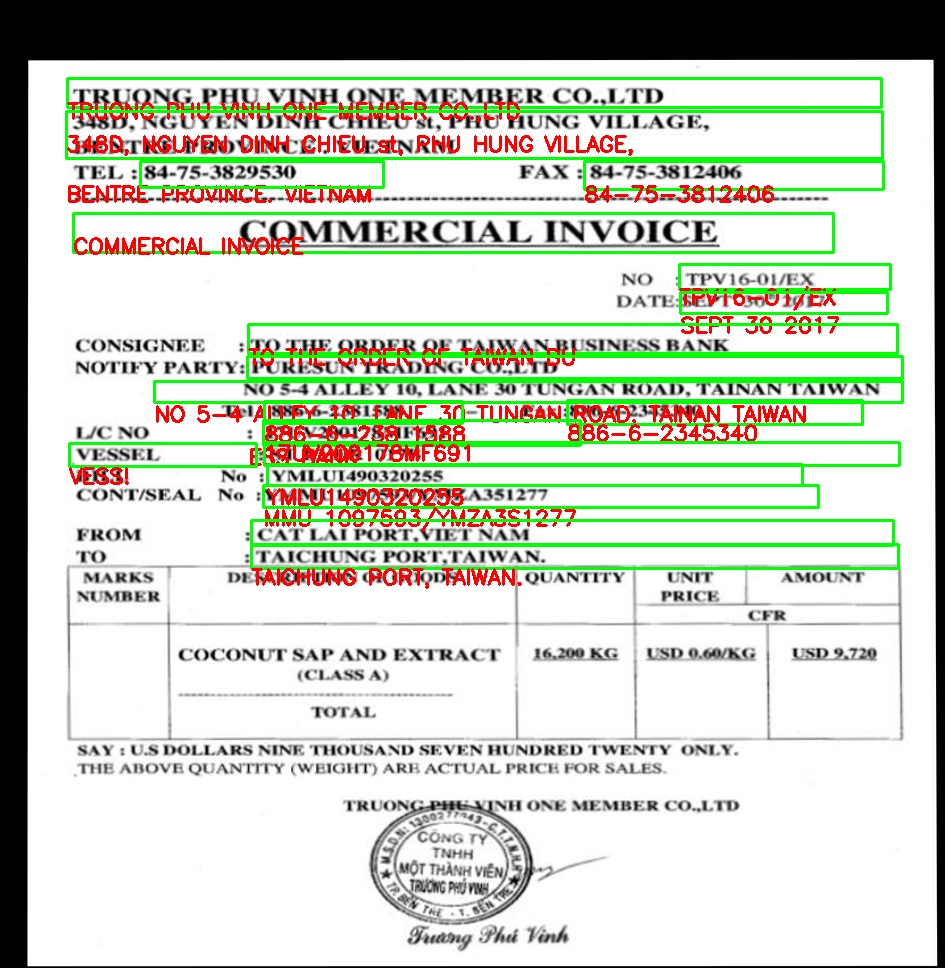
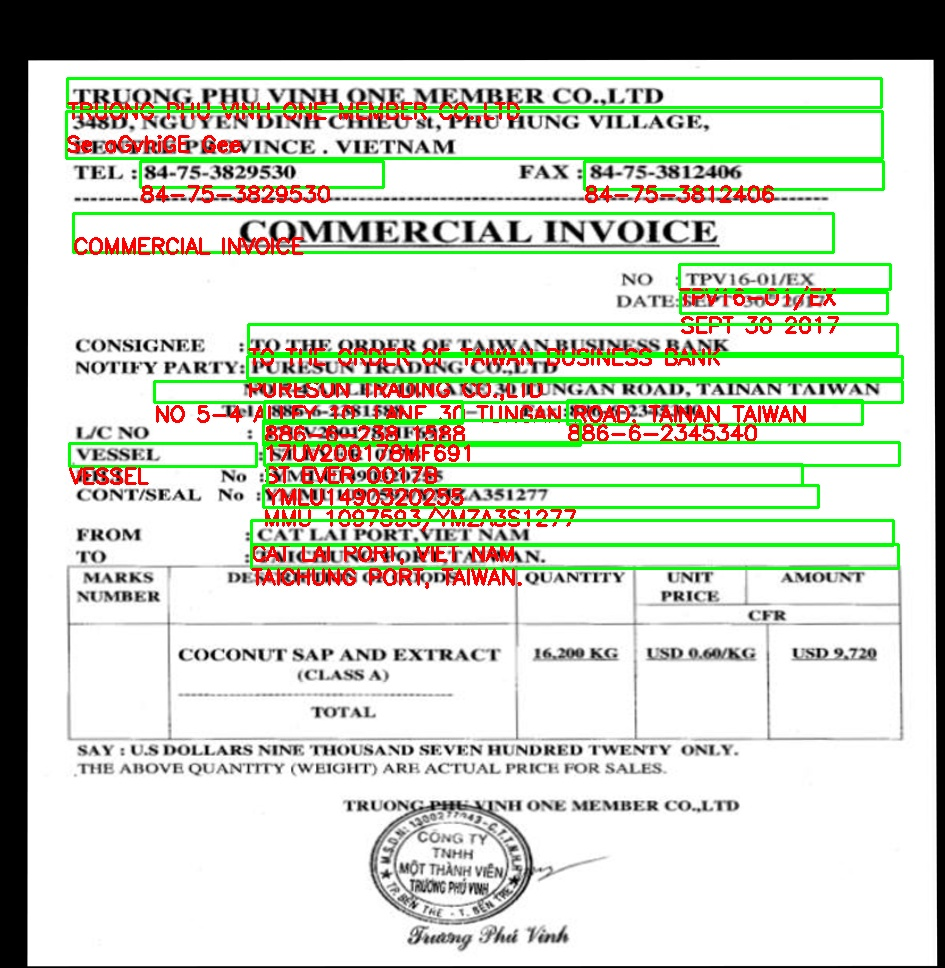
update

diff --git a/app/controllers/controller.py b/app/controllers/controller.py
@@ -3,6 +3,9 @@ from sanic import response
 from sanic import Blueprint
 from sanic.request import Request
 from app.services.align_images import align_images
+from app.services.image_process import download_image_from_url, load_template_and_config
+from app.services.text_process import cleanup_text
+from app.services.ocr_form import ocr_image, visualize_ocr
 from numpy import asarray
 import pytesseract
 import numpy as np
@@ -12,49 +15,7 @@ import os
 import imutils
 
 
-def cleanup_text(text):
-	return "".join([c if ord(c) < 128 else "" for c in text]).strip()
-
 my_bp = Blueprint('my_blueprint')
-
-import requests
-from io import BytesIO
-from PIL import Image
-import urllib
-
-def download_image_from_url(url):
-	try:
-		url_response = urllib.request.urlopen(url)
-		img_array = np.array(bytearray(url_response.read()), dtype=np.uint8)
-		img = cv2.imdecode(img_array, -1)
-		return img
-	except Exception as e:
-		print(f"Error downloading image from URL: {e}")
-		return None
-
-def load_template_and_config(doc_type):
-	try:
-		if doc_type == 1:
-			label = 'invoice_1'
-			template_folder = f'app/templates/invoices'
-			config_folder = f'app/classified/invoices'
-
-			# Load template image
-			template_image_path = os.path.join(template_folder, label + '.png')
-			template_image = cv2.imread(template_image_path)
-
-			# Load config from JSON file
-			config_file_path = os.path.join(config_folder, label + '.json')
-			with open(config_file_path, 'r') as config_file:
-				config_data = json.load(config_file)
-
-			return template_image, config_data
-
-		# Handle other doc_types if needed
-
-	except Exception as e:
-		print(f"Error loading template and config: {e}")
-		return None, None
 
 @my_bp.route('/my_bp')
 def my_bp_func(request):
@@ -68,7 +29,7 @@ def my_bp_func(request):
 @my_bp.route('/ocr_document', methods=['POST'])
 async def ocr_document(request: Request):
 	try:
-		custom_config = "-c page_separator=''"
+		# custom_config = "-c page_separator=''"
 		data = request.json
 		doc_type = data.get('type')
 		image_url = data.get('image_url')
@@ -80,75 +41,10 @@ async def ocr_document(request: Request):
 
 		if template is not None and config_data is not None:
 			image = download_image_from_url(image_url)
-			print("img: ", image)
-			# if image:
-			# Tiếp tục xử lý ảnh
-			# ...
-			print("[Info] aligning images...")
 			aligned = align_images(image, template)
+			results = ocr_image(aligned, template, OCR_Locations=config_data)
+			visualize_ocr(results, image, aligned)
 
-			print("[Info] OCR'ing document...")
-			parsingResults = []
-			OCR_Locations = config_data
-			for loc in OCR_Locations:
-				bbox = loc["bbox"]
-				(x, y, w, h) = bbox
-				# roi = aligned[y:y+h, x:x+w]
-				roi = aligned[y: h, x: w]
-
-				rgb = cv2.cvtColor(roi, cv2.COLOR_BGR2GRAY)
-				# image = cv2.cvtColor(rgb, cv2.COLOR_BGR2GRAY)
-				# print(pytesseract.image_to_string(rgb, config='--psm 7')) #use psm 7 since it is a single line
-				cv2.imwrite(loc['id'] + '.jpg', rgb)
-				text = pytesseract.image_to_string(rgb, config='--psm 7')
-				
-				for line in text.split("\n"):
-					if len(line) == 0:
-						continue
-
-					lower = line.lower()
-					count = sum([lower.count(x) for x in loc["filter_keywords"]])
-
-					# if count == 0:
-					parsingResults.append((loc, line))
-
-			results = {}
-
-			for (loc, line) in parsingResults:
-				print("loc:", loc)
-				r = results.get(loc['id'], None)
-
-				if r is None:
-					results[loc['id']] = (line, loc)
-				
-				else:
-					(existingText, loc) = r
-					text = "{}\n{}".format(existingText, line)
-
-					results[loc["id"]] = (text, loc)
-
-			for (locID, result) in results.items():
-				(text, loc) = result
-
-				print(loc["id"])
-				print("=" * len(loc["id"]))
-				print("{}\n\n".format(text))
-
-				(x, y, x2, y2) = loc["bbox"]
-				clean = cleanup_text(text)
-
-				cv2.rectangle(aligned, (x, y), (x2, y2), (0, 255, 0), 2)
-
-				for (i, line) in enumerate(clean.split("\n")):
-					startY = y + (i * 50) + 40  # Điều chỉnh khoảng cách giữa các dòng và kích thước của chữ
-					cv2.putText(aligned, line, (x, startY), cv2.FONT_HERSHEY_SIMPLEX, 0.7, (0, 0, 255), 2)  # Thay đổi tham số fontScale và thickness
-
-			cv2.imwrite("input.jpg", imutils.resize(image))
-			cv2.imwrite("Output.jpg", imutils.resize(aligned))
-			print("[Info] aligned image saved as new.jpg")
-			# cv2.imshow("Input", imutils.resize(image))
-			# cv2.imshow("Output", imutils.resize(aligned))
-			cv2.waitKey(0)
 
 		# Return the OCR results
 		# Tạo dictionary mới

diff --git a/app/services/ocr_form.py b/app/services/ocr_form.py
@@ -1,87 +1,72 @@
-import align_images
+from app.services.align_images import align_images
+from app.services.text_process import cleanup_text
 from collections import namedtuple
 import pytesseract
 import argparse
 import imutils
 import cv2
 import json
+from numpy import asarray
+import pytesseract
+import numpy as np
+import os
 
-def cleanup_text(text):
-    return "".join([c if ord(c) < 128 else "" for c in text]).strip()
+def ocr_image(aligned, template, OCR_Locations):
 
-ap = argparse.ArgumentParser()
-ap.add_argument("-i", "--image", required=True,
-    help="path to input image that we'll assign to template")
-ap.add_argument("-t", "--template", required=True,
-    help="path to input template image")
-args = vars(ap.parse_args())
+	print("[Info] OCR'ing document...")
+	parsingResults = []
+	for loc in OCR_Locations:
+		bbox = loc["bbox"]
+		(x, y, w, h) = bbox
+		roi = aligned[y: h, x: w]
 
-with open("config.json", "r") as config_file:
-    OCR_Locations = json.load(config_file)
+		rgb = cv2.cvtColor(roi, cv2.COLOR_BGR2GRAY)
+		# image = cv2.cvtColor(rgb, cv2.COLOR_BGR2GRAY)
+		# cv2.imwrite(loc['id'] + '.jpg', rgb)
+		text = pytesseract.image_to_string(rgb, config='--psm 7')
+		
+		for line in text.split("\n"):
+			if len(line) == 0:
+				continue
 
-print("[Info] loading images...")
-image = cv2.imread(args["image"])
-template = cv2.imread(args["template"])
+			lower = line.lower()
+			count = sum([lower.count(x) for x in loc["filter_keywords"]])
 
-print("[Info] aligning images...")
-aligned = align_images.align_images(image, template)
+			# if count == 0:
+			parsingResults.append((loc, line))
 
-print("[Info] OCR'ing document...")
-parsingResults = []
+	results = {}
+	for (loc, line) in parsingResults:
+		r = results.get(loc['id'], None)
 
-for loc in OCR_Locations:
-    bbox = loc["bbox"]
-    (x, y, w, h) = bbox
-    # roi = aligned[y:y+h, x:x+w]
-    roi = aligned[y: h, x: w]
+		if r is None:
+			results[loc['id']] = (line, loc)
+		
+		else:
+			(existingText, loc) = r
+			text = "{}\n{}".format(existingText, line)
 
-    rgb = cv2.cvtColor(roi, cv2.COLOR_BGR2RGB)
-    text = pytesseract.image_to_string(rgb)
-    
-    for line in text.split("\n"):
-        if len(line) == 0:
-            continue
+			results[loc["id"]] = (text, loc)
+	return results
 
-        lower = line.lower()
-        count = sum([lower.count(x) for x in loc["filter_keywords"]])
+def visualize_ocr(results, image, aligned):
+	print("[Info] Visualizing OCR...")
+	for (locID, result) in results.items():
+		(text, loc) = result
 
-        # if count == 0:
-        parsingResults.append((loc, line))
+		print(loc["id"])
+		print("=" * len(loc["id"]))
+		print("{}\n\n".format(text))
 
-results = {}
+		(x, y, x2, y2) = loc["bbox"]
+		clean = cleanup_text(text)
 
-for (loc, line) in parsingResults:
-    print("loc:", loc)
-    r = results.get(loc['id'], None)
+		cv2.rectangle(aligned, (x, y), (x2, y2), (0, 255, 0), 2)
 
-    if r is None:
-        results[loc['id']] = (line, loc)
-    
-    else:
-        (existingText, loc) = r
-        text = "{}\n{}".format(existingText, line)
+		for (i, line) in enumerate(clean.split("\n")):
+			startY = y + (i * 50) + 40  # Điều chỉnh khoảng cách giữa các dòng và kích thước của chữ
+			cv2.putText(aligned, line, (x, startY), cv2.FONT_HERSHEY_SIMPLEX, 0.7, (0, 0, 255), 2)  # Thay đổi tham số fontScale và thickness
 
-        results[loc["id"]] = (text, loc)
-
-for (locID, result) in results.items():
-    (text, loc) = result
-
-    print(loc["id"])
-    print("=" * len(loc["id"]))
-    print("{}\n\n".format(text))
-
-    (x, y, w, h) = loc["bbox"]
-    clean = cleanup_text(text)
-
-    cv2.rectangle(aligned, (x, y), (x+w, y+h), (0, 255, 0), 2)
-
-    for (i, line) in enumerate(clean.split("\n")):
-        startY = y + (i * 70) + 40
-        cv2.putText(aligned, line, (x, startY), cv2.FONT_HERSHEY_SIMPLEX, 1.8, (0, 0, 255), 5)
-
-cv2.imwrite("input.jpg", imutils.resize(image))
-cv2.imwrite("Output.jpg", imutils.resize(aligned))
-print("[Info] aligned image saved as new.jpg")
-# cv2.imshow("Input", imutils.resize(image))
-# cv2.imshow("Output", imutils.resize(aligned))
-cv2.waitKey(0)
+	cv2.imwrite("input.jpg", imutils.resize(image))
+	cv2.imwrite("Output.jpg", imutils.resize(aligned))
+	print("[Info] aligned image saved as new.jpg")

diff --git a/app/services/image_process.py b/app/services/image_process.py
@@ -1,0 +1,43 @@
+import requests
+from io import BytesIO
+from PIL import Image
+import urllib
+import numpy as np
+import cv2
+import json
+import os
+import imutils
+
+def download_image_from_url(url):
+	try:
+		url_response = urllib.request.urlopen(url)
+		img_array = np.array(bytearray(url_response.read()), dtype=np.uint8)
+		img = cv2.imdecode(img_array, -1)
+		return img
+	except Exception as e:
+		print(f"Error downloading image from URL: {e}")
+		return None
+
+def load_template_and_config(doc_type):
+	try:
+		if doc_type == 1:
+			label = 'invoice_1'
+			template_folder = f'app/templates/invoices'
+			config_folder = f'app/classified/invoices'
+
+			# Load template image
+			template_image_path = os.path.join(template_folder, label + '.png')
+			template_image = cv2.imread(template_image_path)
+
+			# Load config from JSON file
+			config_file_path = os.path.join(config_folder, label + '.json')
+			with open(config_file_path, 'r') as config_file:
+				config_data = json.load(config_file)
+
+			return template_image, config_data
+
+		# Handle other doc_types if needed
+
+	except Exception as e:
+		print(f"Error loading template and config: {e}")
+		return None, None

diff --git a/app/services/align_images.py b/app/services/align_images.py
@@ -3,6 +3,7 @@ import imutils
 import cv2
 
 def align_images(image, template, maxFeatures=500, keepPercent=0.2, debug=False):
+    print("[Info] Aligning image...")
     imgGray = cv2.cvtColor(image, cv2.COLOR_BGR2GRAY)
     templateGray = cv2.cvtColor(template, cv2.COLOR_BGR2GRAY)
     

diff --git a/app/services/text_process.py b/app/services/text_process.py
@@ -1,0 +1,2 @@
+def cleanup_text(text):
+	return "".join([c if ord(c) < 128 else "" for c in text]).strip()
